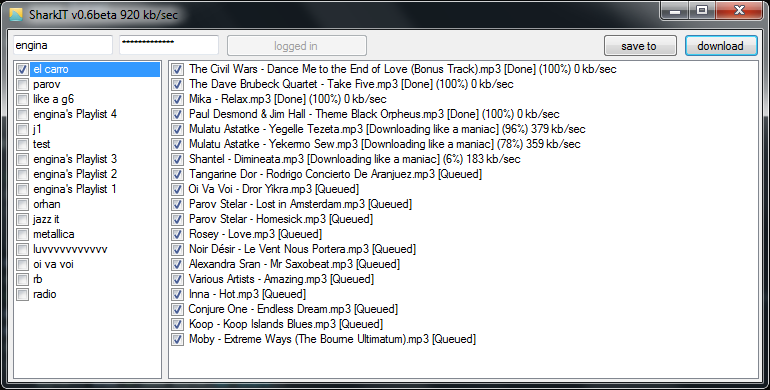
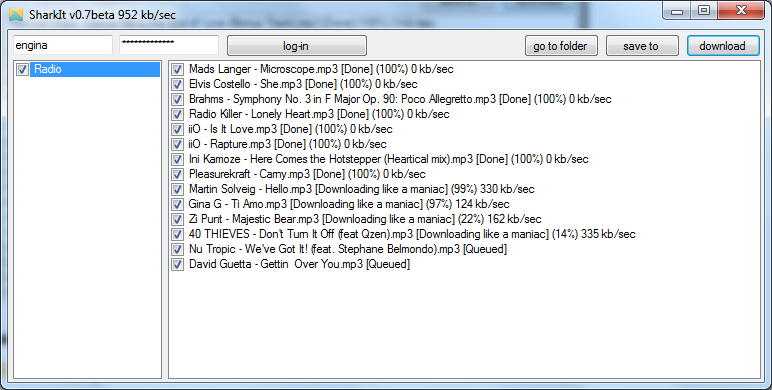
updated index.html and marked as 0.7beta

Changed region(s): [[0.0, 0.0, 1.0, 1.0]]

diff --git a/SharkIt/www/index.html b/SharkIt/www/index.html
@@ -55,17 +55,34 @@
 <fb:like action ="recommend" href="http://engin.bzzzt.biz/sharkit/" show_faces="false"></fb:like>
 <div style="font-size: 9px; color: grey; margin-top: -3px; border-top: 1px solid grey; width: 120px">Grooveshark downloader</div>
 <div class="body">
-	SharkIT is a Grooveshark downloader. It allows you to fetch your playlists, select songs in your playlists and download them all in parallel, with one click. I've coded this in a few hours, it is full of bugs, it does not handle errors (you won't be warned if you typed your password wrong, etc). But it looks like working for now.
-	<p>
-	BTW, anyone can think of a cool name ?
-	<p>
+	SharkIT is a Grooveshark downloader. It allows you to fetch your playlists, select songs in your playlists and 
+    download them in parallel with multiple connections for each.
+
+    <p>
+    The reason this project exist is that I'm experiencing a new way of programming. Quickly hacking a solution together to
+    get the job done instead of losing time on conceiving the perfect design and implementation. What this means for you,
+    the end user, is that you should expect app crashes when something unexpected, such as network failure, happen.
+    <p>
+    Hidden feature: it can grab playlist URLs from clipboard and directly add them to the playlist list.
+    <p>
 		<img src="screenshot.png?v4">
 </div>
 <div class="download">
-	<a style="text-decoration: none; color: orange" ="Download" href="SharkIt-v05.exe">Download v0.5 (59kb)</a> | <a style="text-decoration: none; color: orange" ="Download" href="SharkIt-v06beta.exe">Download v0.6beta (67kb)</a><br/>
+	<a style="text-decoration: none; color: orange" ="Download" href="SharkIt-v05.exe">Download v0.5 (59kb)</a> | <a style="text-decoration: none; color: orange" ="Download" href="SharkIt-v07beta.exe">Download v0.7beta (70kb)</a><br/>
 	<span style="font-size: 12px; color: gray; font-weight: normal">Single executable, no-need to install.</span>
 </div><p/>
 <h3>Changelog</h3>
+
+<h4>20110818 - v0.7beta</h4>
+<div>
+<ul>
+    <li>Now grabs playlist URLs from clipboard -- hence it is not required to have a grooveshark account now.
+    Just copy this <b>http://grooveshark.com/#/playlist/Radio/58487166</b> as a test.</li>
+    <li>Basic logging support for hunting bugs to come. sharkit.log will be created in the working directory of the exe itself.</li>
+</ul>
+</div>
+<hr>
+
 <h4>20110818 - v0.6beta</h4>
 <div>
 <ul>

diff --git a/SharkIt/Main.cs b/SharkIt/Main.cs
@@ -23,9 +23,14 @@ namespace SharkIt
         GS m_gs;
         API m_api;
         string m_title;
+        Logger m_logger;
         public Main()
         {
             InitializeComponent();
+            m_title = "SharkIt v0.7beta";
+            Text = m_title;
+            m_logger = new Logger(this.GetType().ToString());
+            m_logger.Info(m_title + " started");
             PATH = Properties.Settings.Default.Path;
             userNameTB.Text = Properties.Settings.Default.Username;
             passTB.Text = Properties.Settings.Default.Password;
@@ -51,8 +56,6 @@ namespace SharkIt
             t.Interval = 500;
             t.Tick += new EventHandler(t_Tick);
             t.Start();
-            m_title = "SharkIt v0.7beta";
-            Text = m_title;
 
             Timer clipboardWatcher = new Timer();
             clipboardWatcher.Interval = 100;

diff --git a/SharkIt/LogManager.cs b/SharkIt/LogManager.cs
@@ -16,7 +16,7 @@ namespace SharkIt
         }
 
         private static object m_lock = new object();
-        private static StreamWriter m_ts = File.AppendText("log.txt");
+        private static StreamWriter m_ts = File.CreateText("sharkit.log");
 
         public static void Log(Level lvl, string source, string msg)
         {
